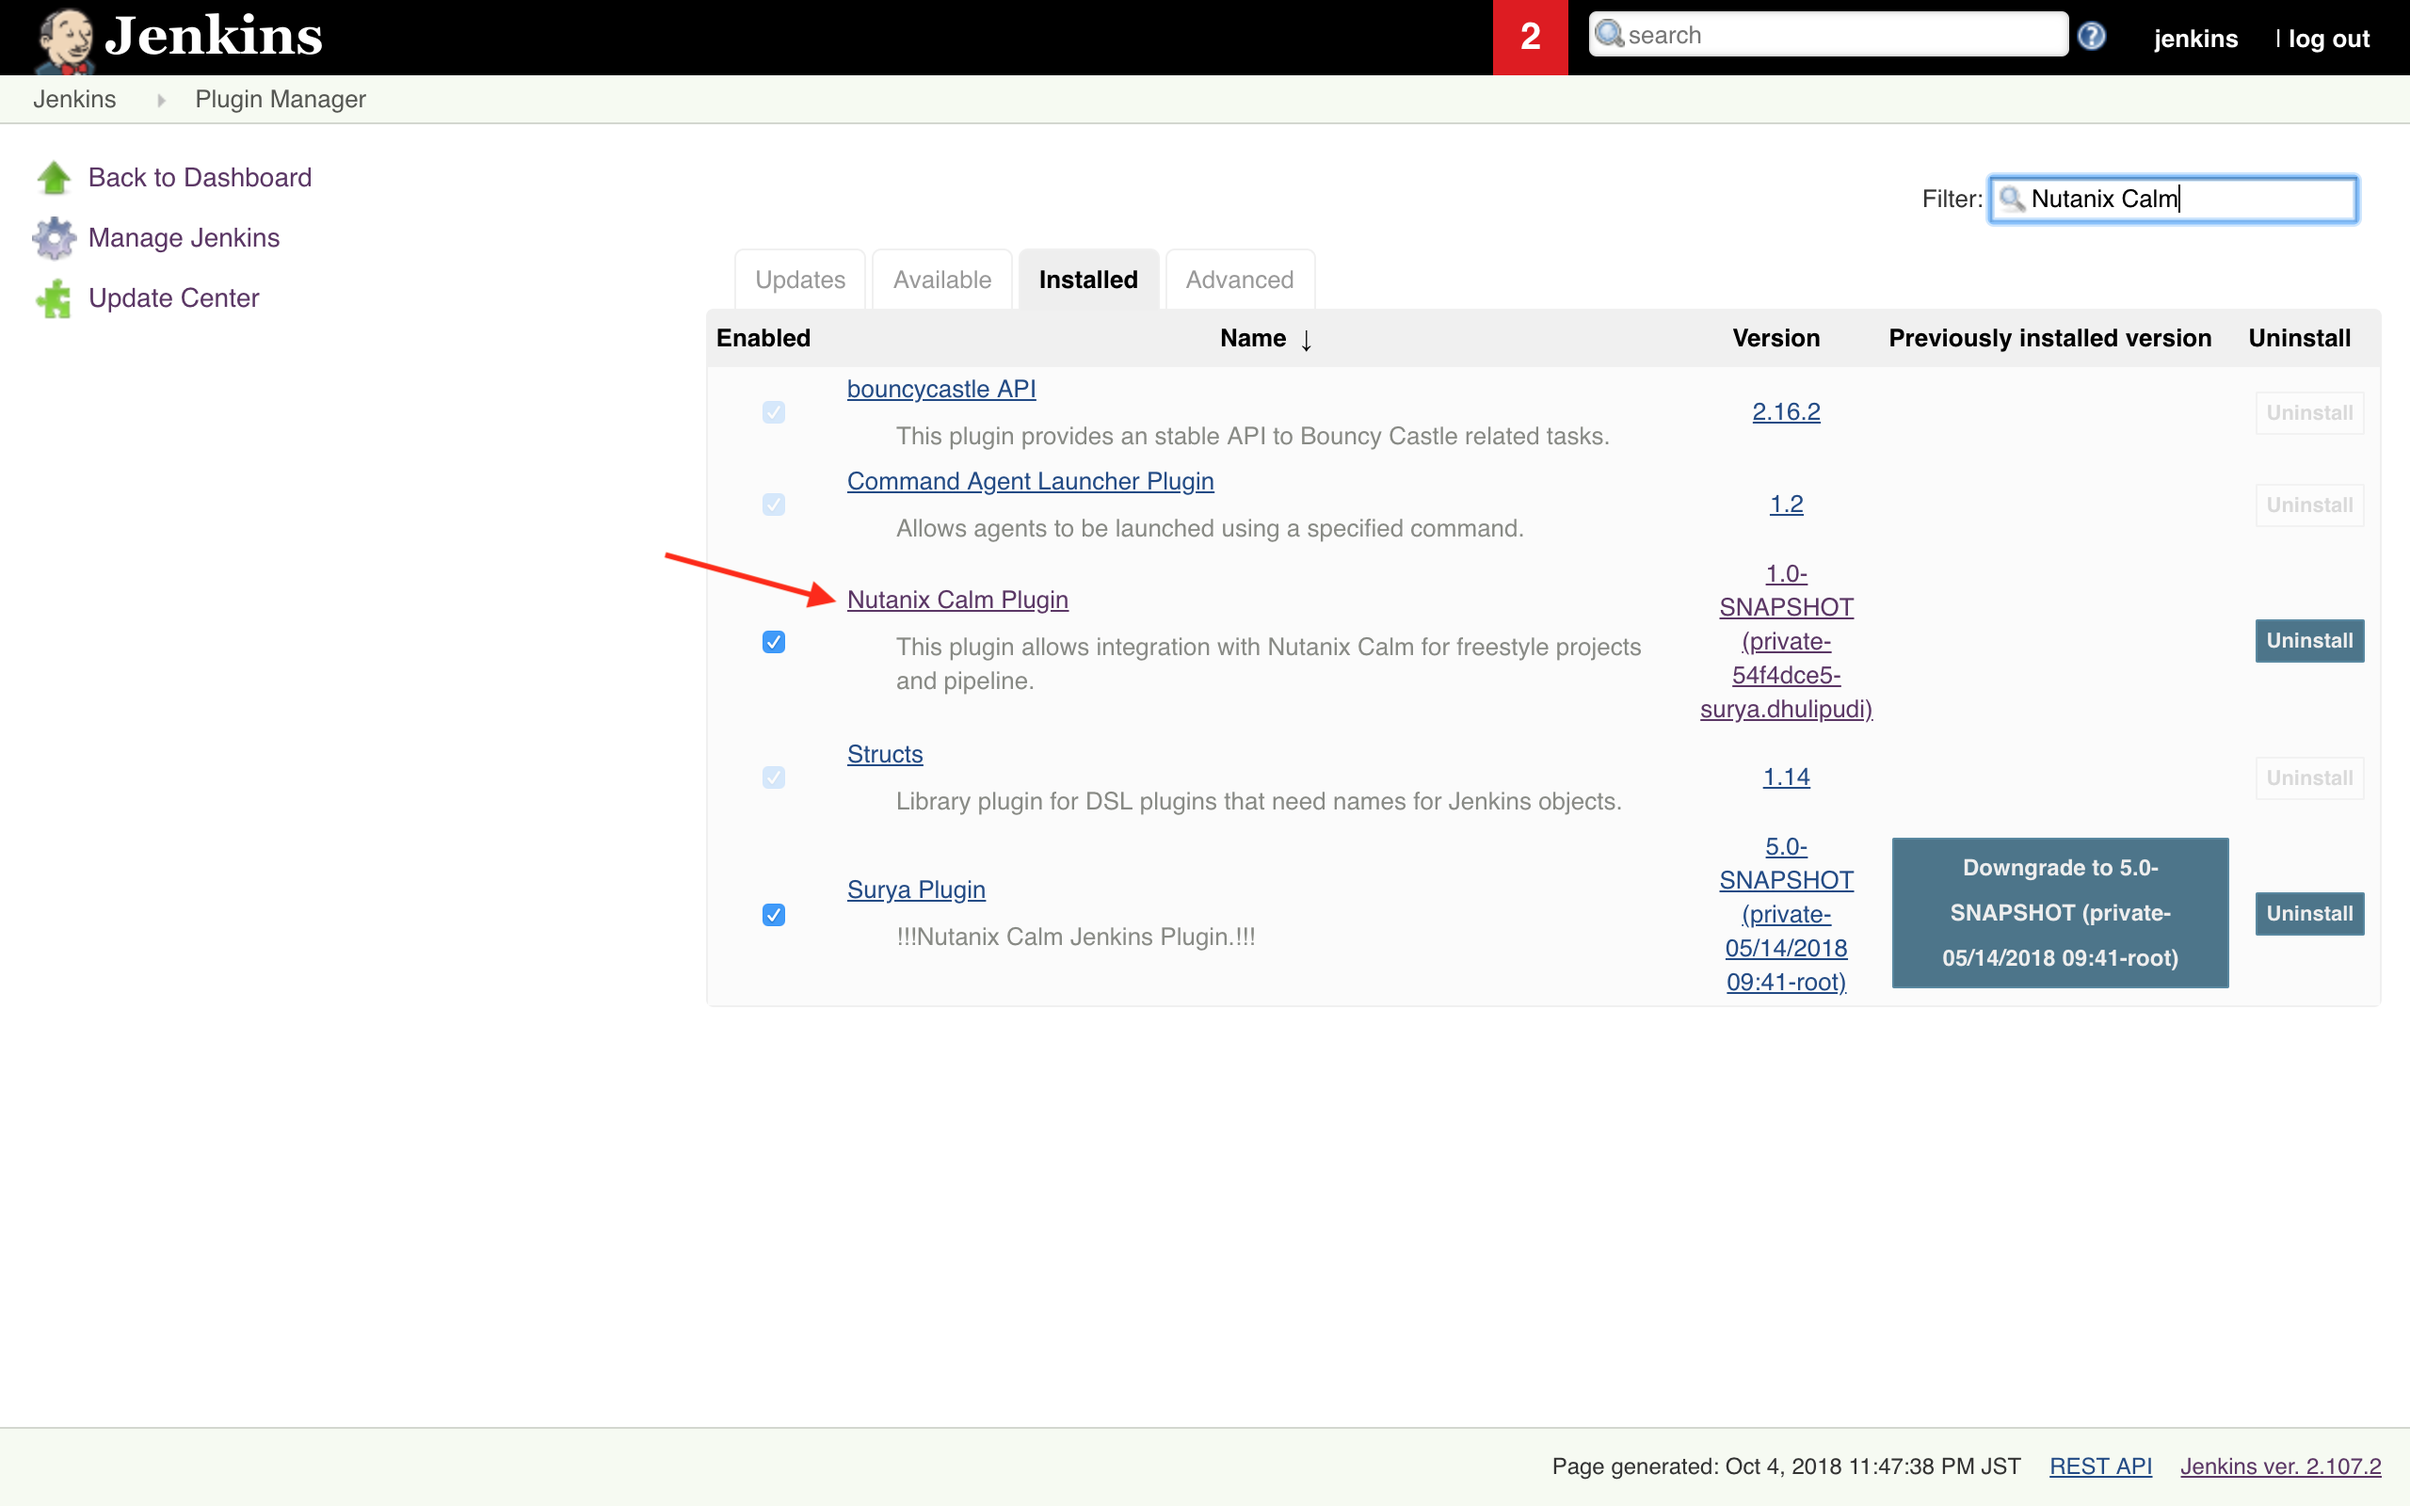
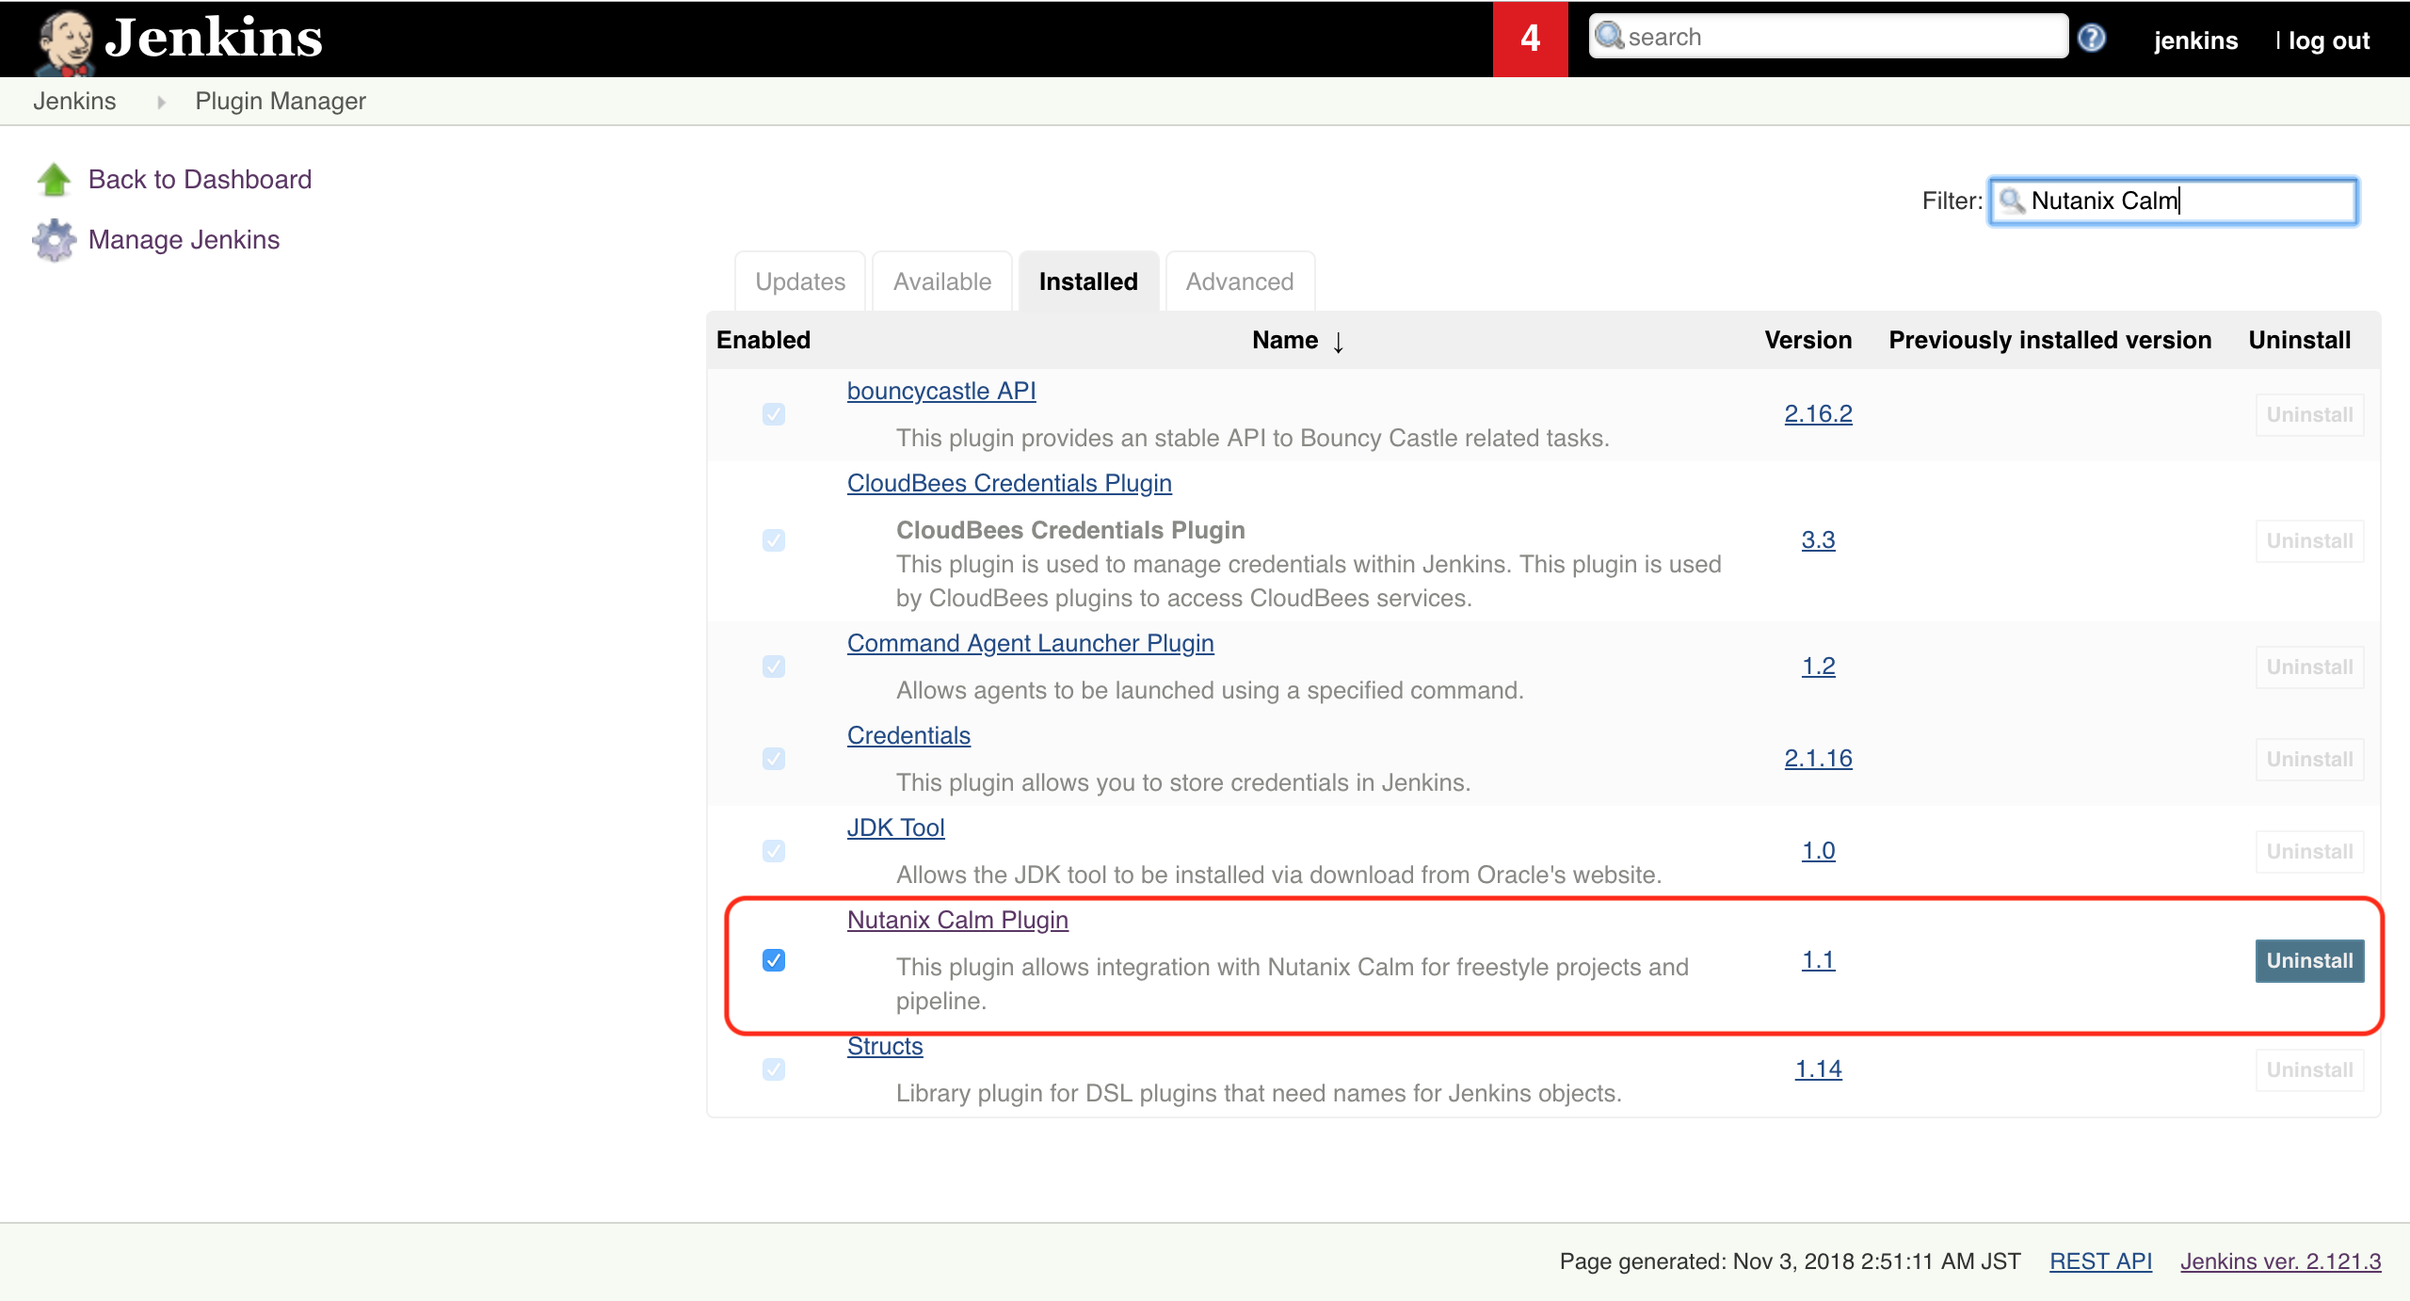
Added screenshots for 1.1 changes

diff --git a/README.md b/README.md
@@ -10,14 +10,13 @@ Nutanix Calm Jenkins plugin allows you to launch Nutanix Calm blueprint, provisi
 * Google Chrome version:  69.0.3497.100 (Official Build) (64-bit)
 
 #### Plugin Installation:
-* Download the plugin file from this link [Nutanix Calm Jenkins Plugin](https://github.com/nutanix/Nutanix-Calm-Jenkins-Plugin/releases/download/v1.0/nutanix-calm.hpi).
-* Navigate to Manage Jenkins→ Manage Plugins → Advanced.  Upload the plugin file.
-  ![](Docs/screenshots/Upload_plugin.png)
+* Navigate to Manage Jenkins→ Manage Plugins → Available.  Search for Nutanix Calm.
+  ![](Docs/screenshots/Available_plugin.png)
 * To verify that the Nutanix Calm plug-in is successfully installed, click Manage Jenkins→ Manage Plugins→ Installed search for Nutanix Calm plugin.
   ![](Docs/screenshots/Verify_plugin.png)
 
 #### Plugin Configuration:
-* To configure the plugin first Navigate to Manage Jenkins -> Configure System -> Nutanix Calm Plugin Configuration. Provide the Prism Central IP, Username and Password.
+* To configure the plugin first Navigate to Manage Jenkins -> Configure System -> Nutanix Calm Plugin Configuration. Provide the Prism Central IP/DNS Name, Username and Password.
   ![](Docs/screenshots/Plugin_configuration.png)
 
 #### Jenkins Freestyle job Setup:
